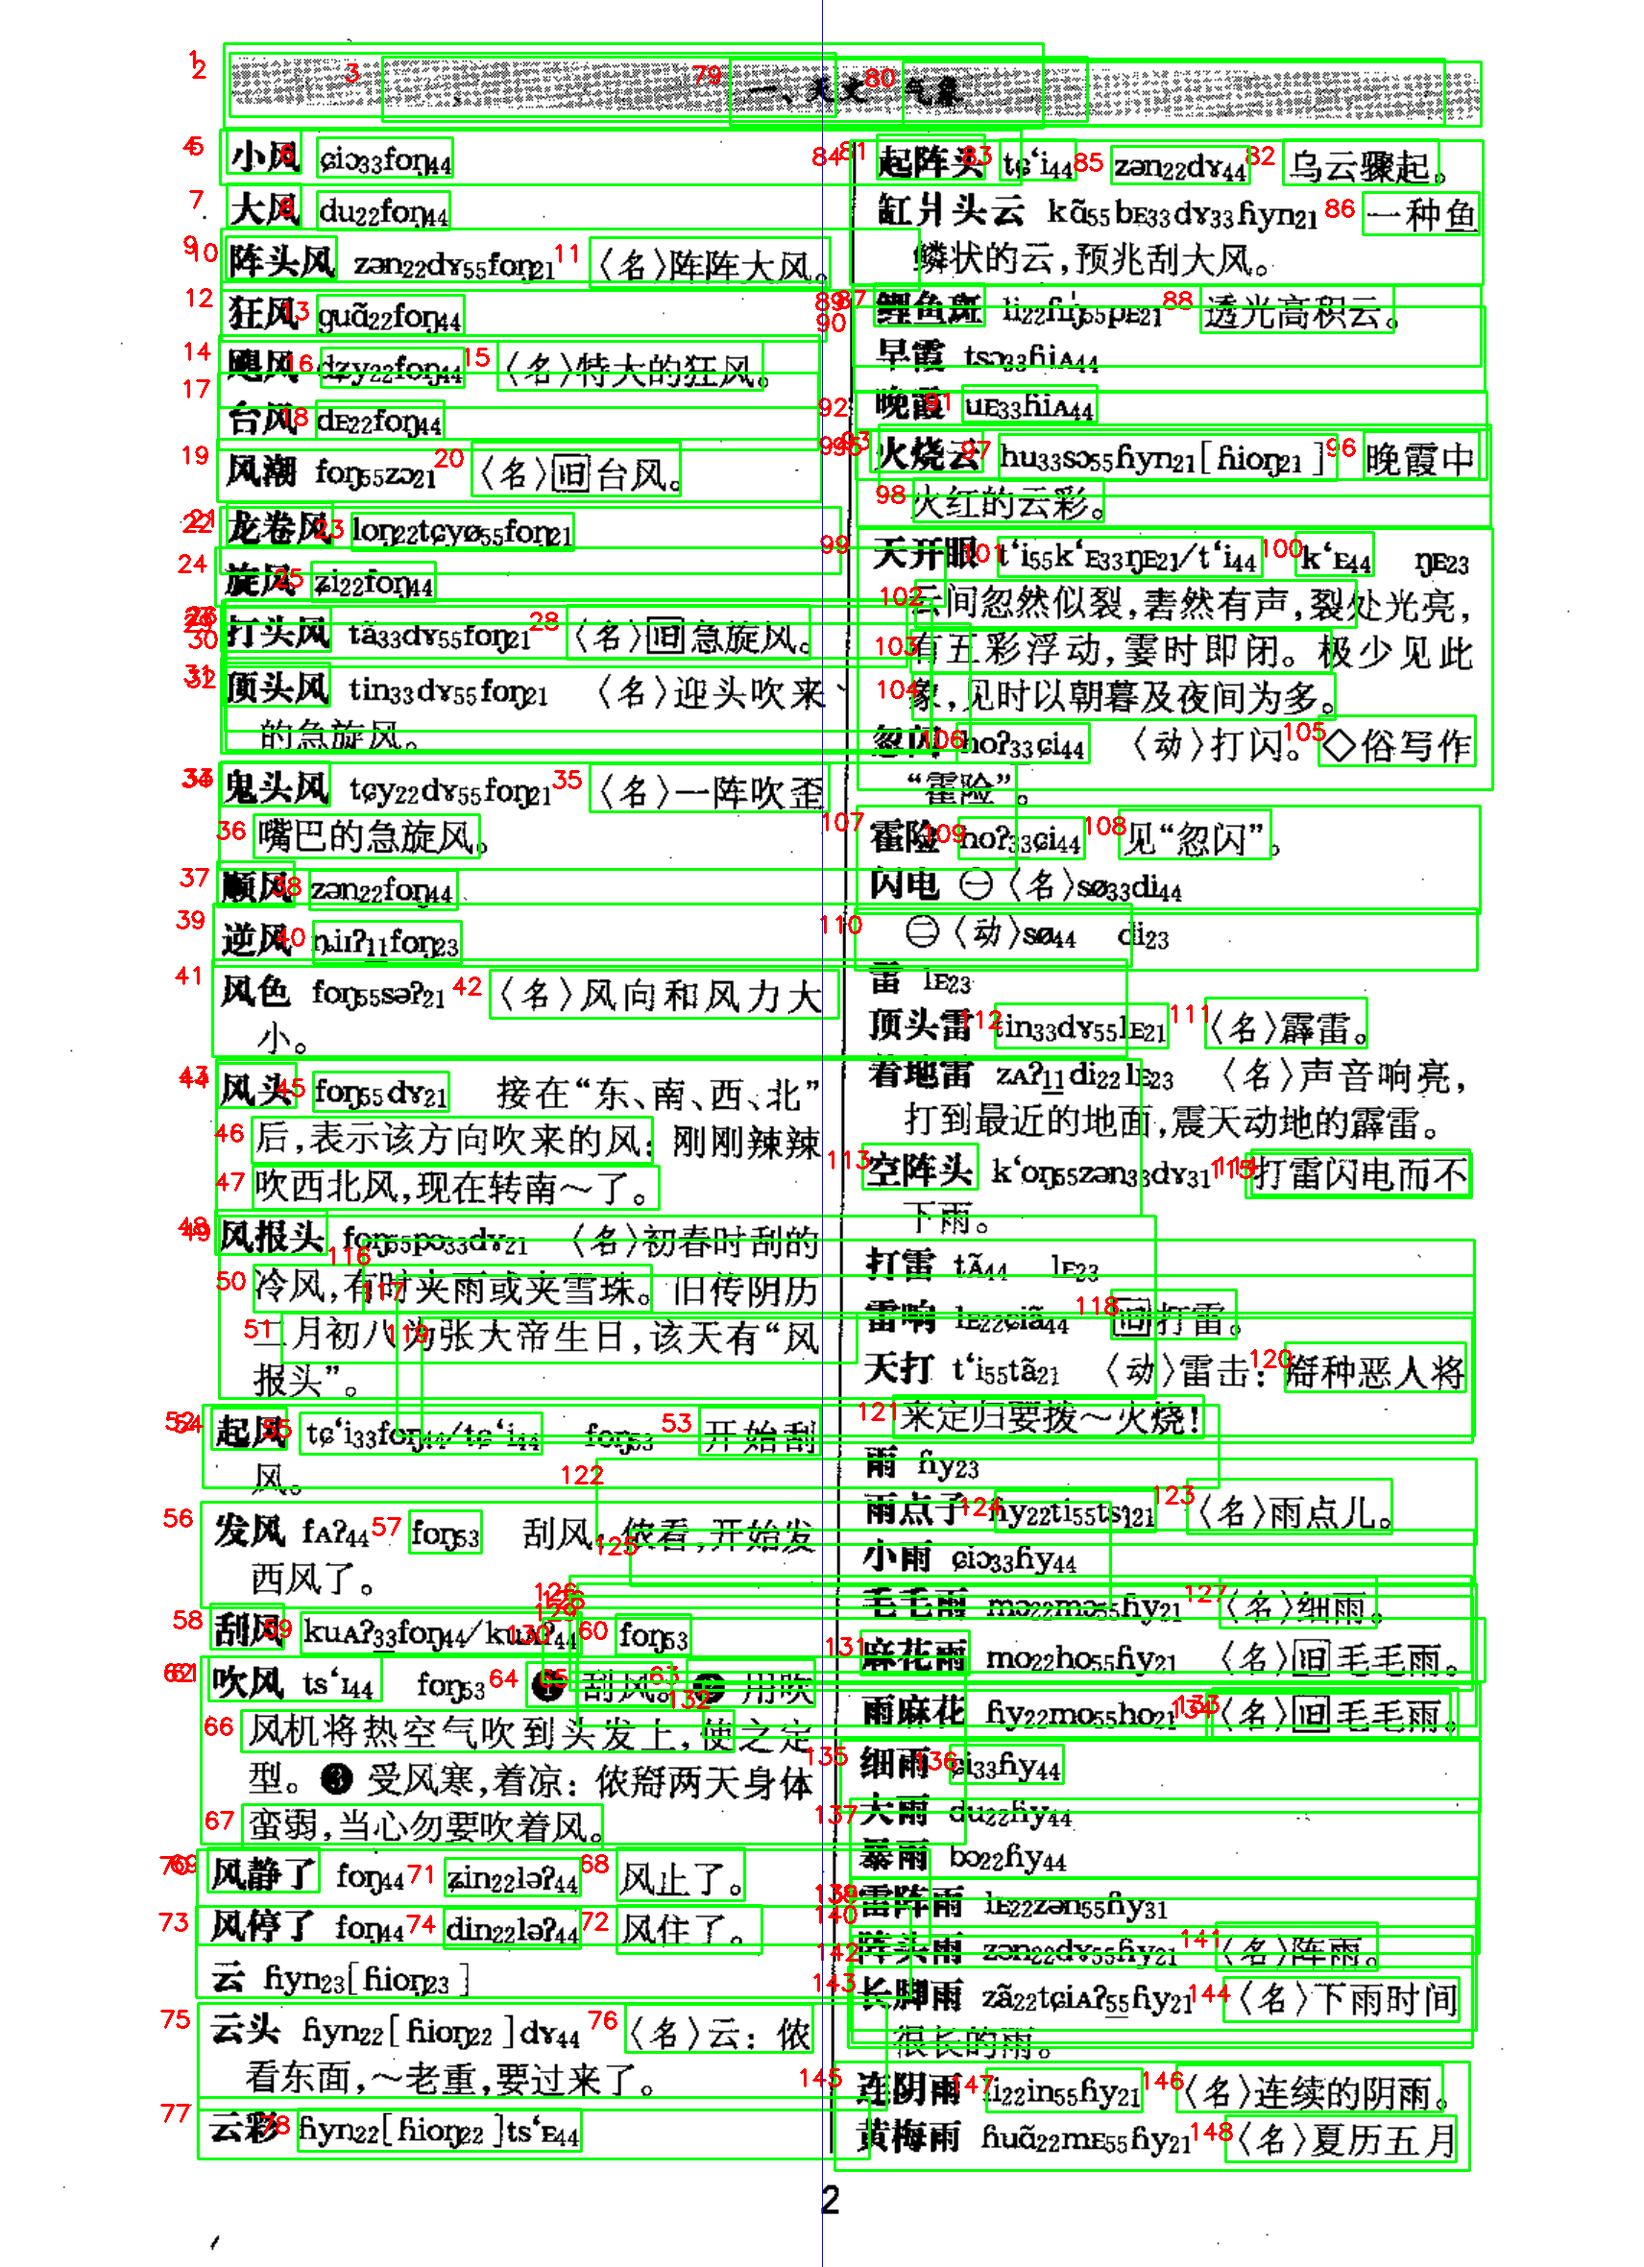
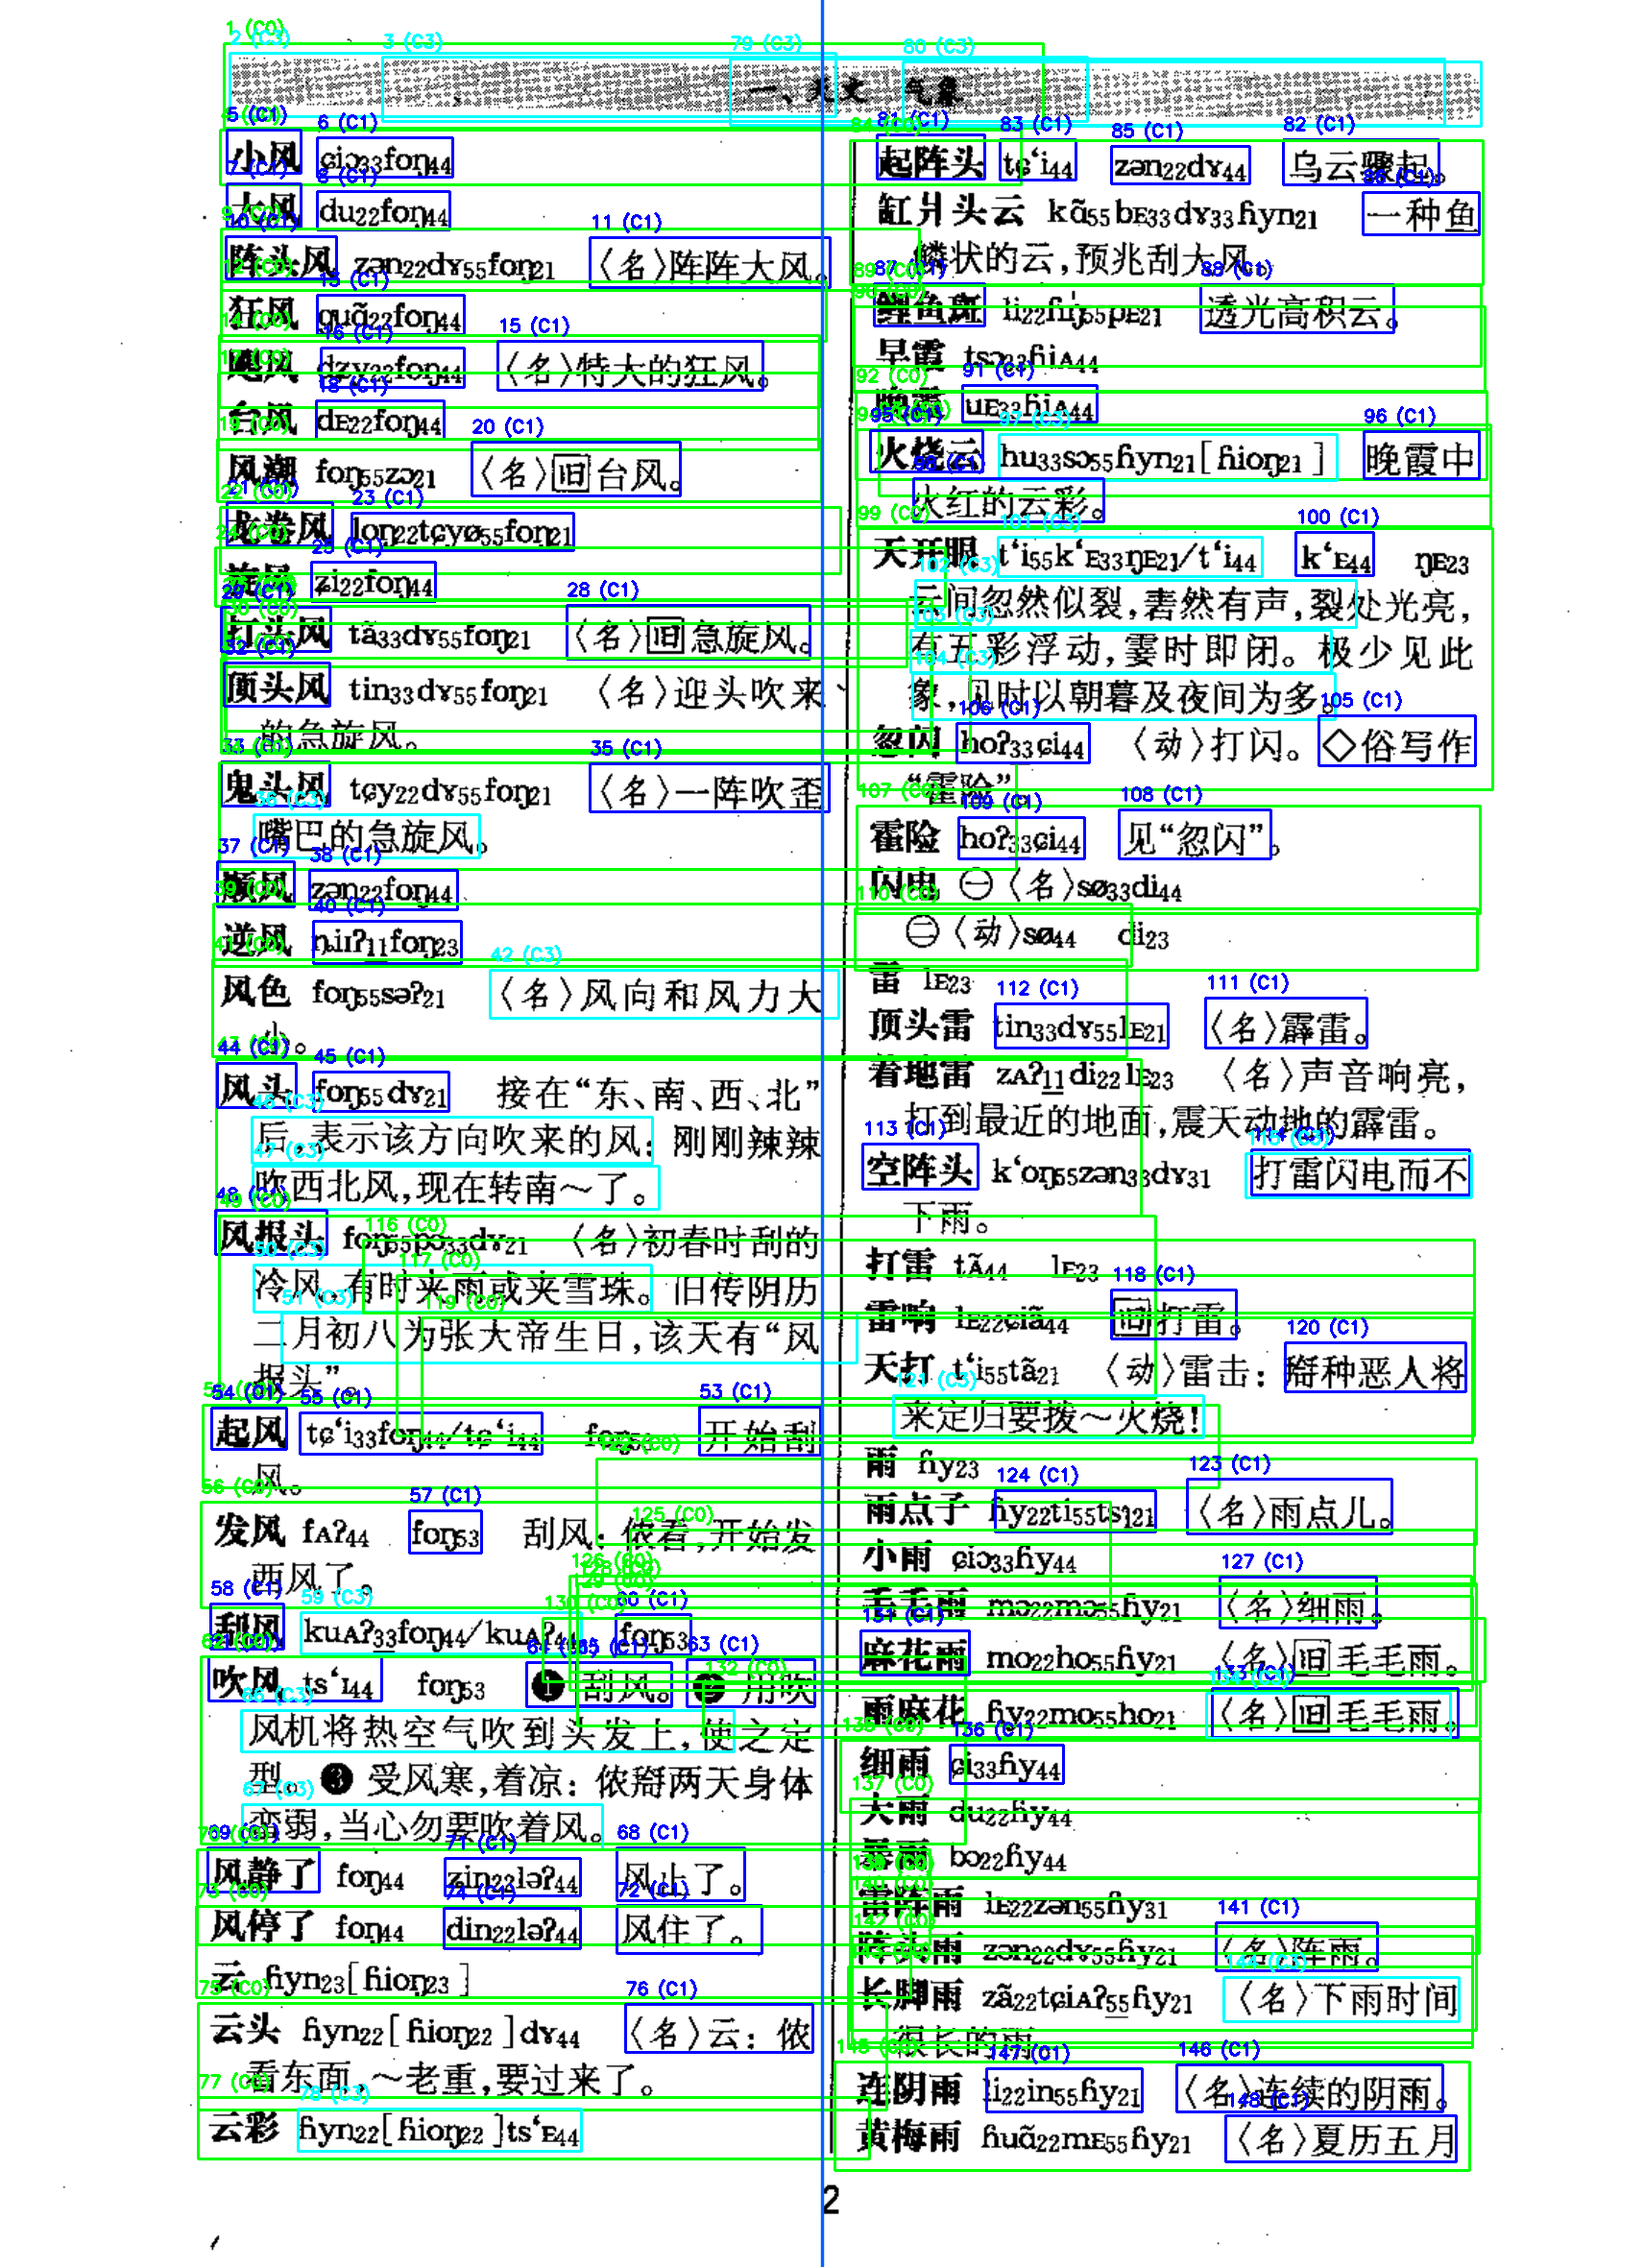
4.6

diff --git a/yolo_debug_viewer.py b/yolo_debug_viewer.py
@@ -8,37 +8,44 @@ DEBUG_OUTPUT = './debug_visual.png'
 
 def debug_yolo_boxes():
     model = YOLO(MODEL_PATH)
-    
     img = cv2.imread(IMAGE_PATH)
-    if img is None:
-        print(f"无法读取图片: {IMAGE_PATH}")
-        return
+    results = model.predict(IMAGE_PATH, conf=0.4)[0]
 
-    results = model.predict(IMAGE_PATH, conf=0.4)
-    boxes = results[0].boxes.xyxy.cpu().numpy()
-
+    boxes = results.boxes.xyxy.cpu().numpy()
+    clss = results.boxes.cls.cpu().numpy()
+    
     h, w, _ = img.shape
     mid_x = w / 2
-    left_column = [b for b in boxes if (b[0] + b[2]) / 2 < mid_x]
-    right_column = [b for b in boxes if (b[0] + b[2]) / 2 >= mid_x]
+
+    colors = {
+        0: (0, 255, 0),
+        1: (255, 0, 0),
+        2: (0, 0, 255),
+        3: (255, 255, 0)
+    }
+
+    data = []
+    for box, cls in zip(boxes, clss):
+        if int(cls) == 2: continue 
+        
+        center_x = (box[0] + box[2]) / 2
+        col_idx = 0 if center_x < mid_x else 1
+        data.append({'box': box, 'cls': int(cls), 'col': col_idx})
+
+    sorted_data = sorted(data, key=lambda x: (x['col'], x['box'][1]))
+
+    for i, item in enumerate(sorted_data):
+        x1, y1, x2, y2 = map(int, item['box'])
+        cls = item['cls']
+        color = colors.get(cls, (128, 128, 128))
+        
+        cv2.rectangle(img, (x1, y1), (x2, y2), color, 2)
+
+        label = f"{i+1} (C{cls})"
+        cv2.putText(img, label, (x1, y1 - 10), cv2.FONT_HERSHEY_SIMPLEX, 0.6, color, 2)
+
+    cv2.line(img, (int(mid_x), 0), (int(mid_x), h), (255, 100, 0), 2, cv2.LINE_AA)
     
-    left_column = sorted(left_column, key=lambda b: b[1])
-    right_column = sorted(right_column, key=lambda b: b[1])
-    sorted_boxes = left_column + right_column
-
-    print(f"AI 总共找到了 {len(sorted_boxes)} 个框")
-
-    for i, box in enumerate(sorted_boxes):
-        x1, y1, x2, y2 = map(int, box)
-        cv2.rectangle(img, (x1, y1), (x2, y2), (0, 255, 0), 2)
-
-        cv2.putText(img, str(i+1), (x1 - 40, y1 + 25), 
-                    cv2.FONT_HERSHEY_SIMPLEX, 0.8, (0, 0, 255), 2)
-
-
-    cv2.line(img, (int(mid_x), 0), (int(mid_x), h), (255, 0, 0), 1)
-
-
     cv2.imwrite(DEBUG_OUTPUT, img)
     print(f"调试预览图已生成: {DEBUG_OUTPUT}")
     
